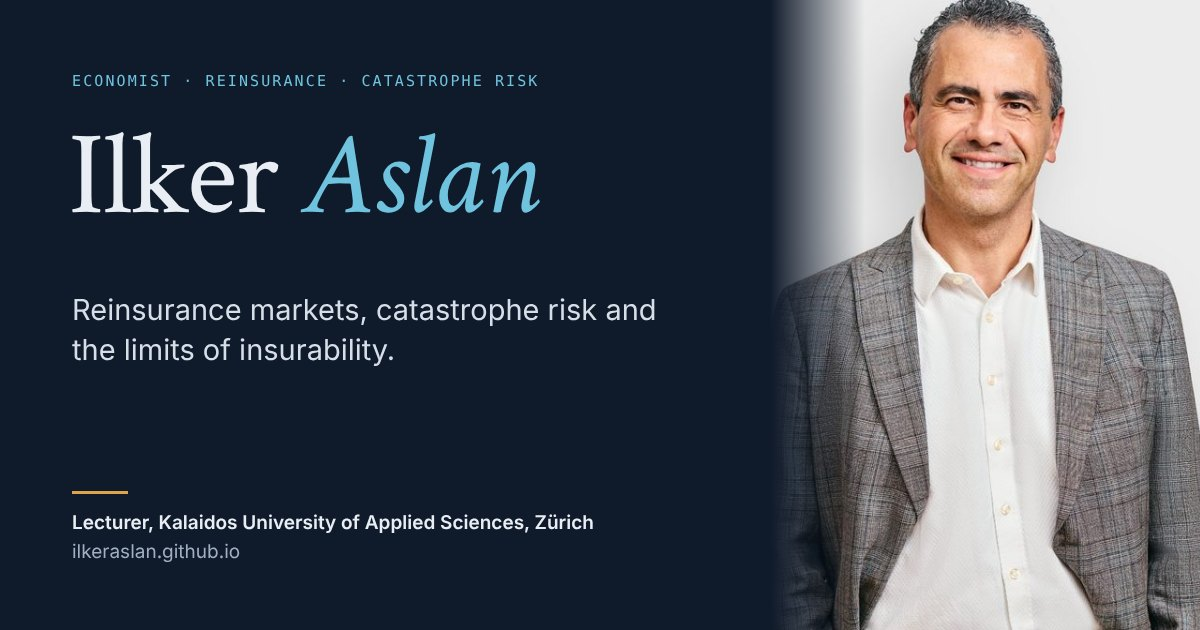
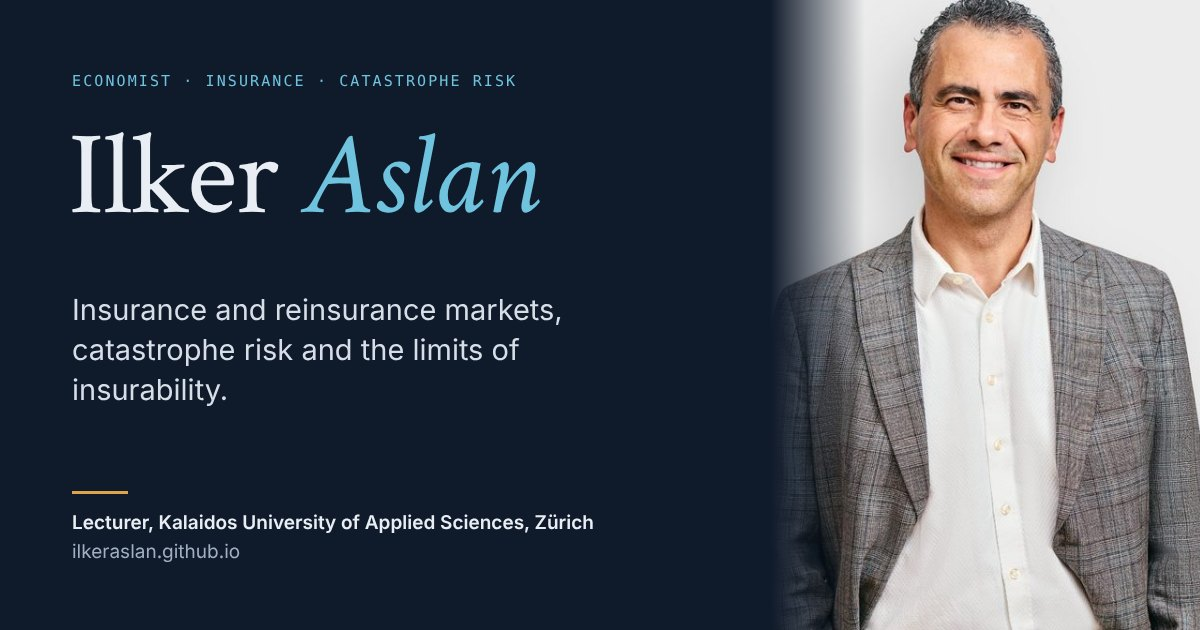
Polish phone layout, dark-mode photo and titles; lead with insurance

diff --git a/index.html b/index.html
@@ -3,7 +3,7 @@
 <head>
 <meta charset="utf-8">
 <meta name="viewport" content="width=device-width, initial-scale=1">
-<title>Ilker Aslan, PhD · Economist: reinsurance, catastrophe risk and monetary economics</title>
+<title>Ilker Aslan, PhD · Economist: insurance, catastrophe risk and monetary economics</title>
 <link rel="canonical" href="https://ilkeraslan.github.io/">
 <link rel="icon" href="assets/favicon.svg" type="image/svg+xml">
 <link rel="apple-touch-icon" href="assets/apple-touch-icon.png">
@@ -11,20 +11,20 @@
 <meta property="og:type" content="profile">
 <meta property="og:url" content="https://ilkeraslan.github.io/">
 <meta property="og:title" content="Ilker Aslan, PhD · Economist">
-<meta property="og:description" content="Reinsurance markets, catastrophe risk and the limits of insurability. Papers, talks, teaching and CV.">
-<meta property="og:image" content="https://ilkeraslan.github.io/assets/og-card.jpg">
+<meta property="og:description" content="Insurance and reinsurance markets, catastrophe risk and the limits of insurability. Papers, talks, teaching and CV.">
+<meta property="og:image" content="https://ilkeraslan.github.io/assets/og-card.jpg?v=2">
 <meta property="og:image:width" content="1200">
 <meta property="og:image:height" content="630">
-<meta property="og:image:alt" content="Ilker Aslan, economist: reinsurance markets, catastrophe risk and the limits of insurability">
+<meta property="og:image:alt" content="Ilker Aslan, economist: insurance and reinsurance markets, catastrophe risk and the limits of insurability">
 <meta property="profile:first_name" content="Ilker">
 <meta property="profile:last_name" content="Aslan">
 <meta name="twitter:card" content="summary_large_image">
 <meta name="twitter:title" content="Ilker Aslan, PhD · Economist">
-<meta name="twitter:description" content="Reinsurance markets, catastrophe risk and the limits of insurability.">
-<meta name="twitter:image" content="https://ilkeraslan.github.io/assets/og-card.jpg">
+<meta name="twitter:description" content="Insurance and reinsurance markets, catastrophe risk and the limits of insurability.">
+<meta name="twitter:image" content="https://ilkeraslan.github.io/assets/og-card.jpg?v=2">
 <meta name="author" content="Ilker Aslan">
-<script type="application/ld+json">{"@context": "https://schema.org", "@type": "Person", "name": "Ilker Aslan", "honorificSuffix": "PhD", "url": "https://ilkeraslan.github.io/", "image": "https://ilkeraslan.github.io/assets/og-card.jpg", "jobTitle": "Lecturer", "worksFor": {"@type": "CollegeOrUniversity", "name": "Kalaidos University of Applied Sciences", "address": {"@type": "PostalAddress", "addressLocality": "Zürich", "addressCountry": "CH"}}, "alumniOf": [{"@type": "CollegeOrUniversity", "name": "University of Fribourg"}, {"@type": "CollegeOrUniversity", "name": "Aarhus University"}, {"@type": "CollegeOrUniversity", "name": "University of Texas at Dallas"}], "knowsLanguage": ["English", "German", "French", "Turkish", "Spanish", "Greek"], "knowsAbout": ["Reinsurance", "Catastrophe risk", "Insurance-linked securities", "Cyber risk", "Monetary economics", "Macroeconomics", "Development economics", "History of economic thought"], "email": "mailto:ilker.aslan@alumni.unifr.ch", "sameAs": ["https://scholar.google.com/citations?user=typ8zTgAAAAJ", "https://papers.ssrn.com/sol3/cf_dev/AbsByAuth.cfm?per_id=4975975", "https://orcid.org/0000-0001-9241-9420", "https://www.linkedin.com/in/drilkeraslan/", "https://github.com/ilkeraslan"]}</script>
-<meta name="description" content="Ilker Aslan, PhD. Economist working on reinsurance markets, catastrophe and cyber risk transfer, and monetary economics. Lecturer, Kalaidos University of Applied Sciences, Zürich.">
+<script type="application/ld+json">{"@context": "https://schema.org", "@type": "Person", "name": "Ilker Aslan", "honorificSuffix": "PhD", "url": "https://ilkeraslan.github.io/", "image": "https://ilkeraslan.github.io/assets/og-card.jpg", "jobTitle": "Lecturer", "worksFor": {"@type": "CollegeOrUniversity", "name": "Kalaidos University of Applied Sciences", "address": {"@type": "PostalAddress", "addressLocality": "Zürich", "addressCountry": "CH"}}, "alumniOf": [{"@type": "CollegeOrUniversity", "name": "University of Fribourg"}, {"@type": "CollegeOrUniversity", "name": "Aarhus University"}, {"@type": "CollegeOrUniversity", "name": "University of Texas at Dallas"}], "knowsLanguage": ["English", "German", "French", "Turkish", "Spanish", "Greek"], "knowsAbout": ["Insurance", "Reinsurance", "Catastrophe risk", "Insurance-linked securities", "Cyber risk", "Monetary economics", "Macroeconomics", "Development economics", "History of economic thought"], "email": "mailto:ilker.aslan@alumni.unifr.ch", "sameAs": ["https://scholar.google.com/citations?user=typ8zTgAAAAJ", "https://papers.ssrn.com/sol3/cf_dev/AbsByAuth.cfm?per_id=4975975", "https://orcid.org/0000-0001-9241-9420", "https://www.linkedin.com/in/drilkeraslan/", "https://github.com/ilkeraslan"]}</script>
+<meta name="description" content="Ilker Aslan, PhD. Economist working on insurance and reinsurance markets, catastrophe and cyber risk transfer, and monetary economics. Lecturer, Kalaidos University of Applied Sciences, Zürich.">
 <link rel="preconnect" href="https://fonts.googleapis.com">
 <link rel="preconnect" href="https://fonts.gstatic.com" crossorigin>
 <link href="https://fonts.googleapis.com/css2?family=IBM+Plex+Mono:wght@400;500&family=IBM+Plex+Sans:wght@400;500;600&family=Instrument+Serif:ital@0;1&display=swap" rel="stylesheet">
@@ -95,6 +95,7 @@ p{margin:0}
 .hero{padding:64px 0 40px}
 .hero-grid{display:grid;grid-template-columns:minmax(0,1.25fr) minmax(0,.75fr);gap:56px;align-items:center}
 .eyebrow{font-family:var(--mono);font-size:12.5px;letter-spacing:.09em;text-transform:uppercase;color:var(--accent)}
+.eyebrow span{white-space:nowrap}
 .hero h1{font-family:var(--display);font-size:clamp(56px,9vw,112px);line-height:.95;letter-spacing:-.01em;margin:14px 0 22px}
 .hero h1 em{font-style:italic;color:var(--accent)}
 .lead{font-size:clamp(19px,2.1vw,23px);line-height:1.45;max-width:34ch;color:var(--ink)}
@@ -108,6 +109,8 @@ p{margin:0}
 .frame{position:relative}
 .portrait img{width:100%;height:auto;aspect-ratio:5/6;object-fit:cover}
 .frame{border-radius:6px;overflow:hidden;border:1px solid var(--line);box-shadow:0 18px 40px -24px rgba(15,26,42,.45)}
+@media (prefers-color-scheme: dark){:root:not([data-theme="light"]) .portrait img{filter:brightness(.84) contrast(1.04)}}
+:root[data-theme="dark"] .portrait img{filter:brightness(.84) contrast(1.04)}
 .portrait figcaption{font-family:var(--mono);font-size:12px;color:var(--muted);margin-top:12px;text-align:left;border-left:2px solid var(--accent);padding-left:10px}
 
 /* Facts strip */
@@ -196,7 +199,7 @@ section{padding:72px 0}
 .copy:hover{background:var(--paper);color:var(--ink)}
 .profiles{list-style:none;margin:0;padding:0;border-top:1px solid color-mix(in srgb,var(--paper) 25%,transparent)}
 .profiles li{border-bottom:1px solid color-mix(in srgb,var(--paper) 25%,transparent)}
-.profiles a{display:flex;justify-content:space-between;gap:16px;padding:15px 0;color:var(--paper);text-decoration:none;font-weight:500}
+.profiles a{display:flex;justify-content:space-between;align-items:baseline;gap:16px;padding:15px 0;color:var(--paper);text-decoration:none;font-weight:500}
 .profiles a span{font-family:var(--mono);font-size:13px;opacity:.7;font-weight:400}
 .profiles a:hover{padding-left:6px}
 .profiles a{transition:padding .15s}
@@ -206,7 +209,13 @@ footer .wrap{border-top:1px solid color-mix(in srgb,var(--paper) 25%,transparent
 @media (max-width: 860px){
   .hero{padding-top:40px}
   .hero-grid,.head,.programme,.cols,.about,.contact .wrap{grid-template-columns:minmax(0,1fr);gap:28px}
-  .portrait{justify-self:start;max-width:280px;order:-1}
+  .portrait{justify-self:start;max-width:240px}
+  .bar .wrap{flex-wrap:nowrap;min-height:52px;gap:14px}
+  .brand{font-size:21px;flex:none}
+  .nav{flex-wrap:nowrap;overflow-x:auto;scrollbar-width:none;gap:18px;padding:2px 0;-webkit-mask-image:linear-gradient(90deg,#000 82%,transparent);mask-image:linear-gradient(90deg,#000 82%,transparent)}
+  .nav::-webkit-scrollbar{display:none}
+  .nav a{white-space:nowrap;font-size:14px}
+  .nav a:last-child{padding-right:24px}
   .facts .wrap{grid-template-columns:repeat(2,minmax(0,1fr))}
   .fact{border-bottom:1px solid var(--line)}
   .fact:nth-child(2n){border-right:0}
@@ -240,9 +249,9 @@ footer .wrap{border-top:1px solid color-mix(in srgb,var(--paper) 25%,transparent
 <div class="hero">
   <div class="wrap hero-grid">
     <div>
-      <div class="eyebrow">Economist · Reinsurance · Catastrophe risk · Monetary economics</div>
+      <div class="eyebrow"><span>Economist</span> · <span>Insurance</span> · <span>Catastrophe risk</span> · <span>Monetary economics</span></div>
       <h1>Ilker <em>Aslan</em></h1>
-      <p class="lead">I study how reinsurance markets price, ration and pass on the risks that societies cannot carry alone.</p>
+      <p class="lead">I study how insurance and reinsurance markets price, ration and pass on the risks that societies cannot carry alone.</p>
       <p class="role">Lecturer, Kalaidos University of Applied Sciences, Zürich. Dr. rer. pol., University of Fribourg, Switzerland. Before that, more than a decade as a treaty reinsurance underwriter.</p>
       <div class="actions">
         <a class="btn primary" href="#papers">Read the papers</a>
@@ -303,7 +312,7 @@ footer .wrap{border-top:1px solid color-mix(in srgb,var(--paper) 25%,transparent
       <div class="highlights">
         <article class="hl">
           <div class="venue">Risk Management and Insurance Review · 2026 · open access</div>
-          <h3>Why risk-based premiums will not close the catastrophe protection gap</h3>
+          <h3>Why Risk-Based Premiums Will Not Close the Catastrophe Protection Gap</h3>
           <p>Europe insures only a fraction of its natural catastrophe losses, and the proposed EU scheme relies on risk-based premiums to change that. Once climate change removes a stable loss distribution, catastrophe prices rest on convention, reinsurance capacity moves in cycles and rationing ratchets upward, so pricing alone cannot close the gap.</p>
           <a href="https://doi.org/10.1111/rmir.70051">Read the article</a>
         </article>
@@ -355,7 +364,7 @@ footer .wrap{border-top:1px solid color-mix(in srgb,var(--paper) 25%,transparent
         <div class="kicker">Talks and teaching</div>
         <h2>Where the work is presented and taught</h2>
       </div>
-      <p>I am glad to give seminars and guest lectures on reinsurance and catastrophe risk, and on monetary, macro and development economics.</p>
+      <p>I am glad to give seminars and guest lectures on insurance, reinsurance and catastrophe risk, and on monetary, macro and development economics.</p>
     </div>
     <div class="cols">
       <div>
@@ -364,13 +373,13 @@ footer .wrap{border-top:1px solid color-mix(in srgb,var(--paper) 25%,transparent
           <li><span class="when">27 Apr 2027</span><span><strong>Research colloquium</strong><span class="sub">Kalaidos University of Applied Sciences, Zürich</span></span></li>
           <li><span class="when">5–6 Feb 2027</span><span><strong>Existential Risk from Artificial Intelligence and the Limits of Insurability</strong><span class="sub">Workshop at Georgia State University, Atlanta. Presenter and discussant</span></span></li>
           <li><span class="when">3 Dec 2026</span><span><strong>Keynes at the National Mutual</strong><span class="sub">International conference “Rethinking Economics with Keynes: 90 Years after the Publication of The General Theory”, Amiens, France</span></span></li>
-          <li><span class="when">Autumn 2026</span><span><strong>Interest-rate risk in insurance asset-liability management</strong><span class="sub">Lecture for master's students, Topics of Applied Risk Management, Department of Finance, University of Zurich · <a href="talks/Aslan_Slides_Interest_Rate_Risk_in_Insurance_ALM.pdf">Slides (PDF)</a></span></span></li>
         </ul>
       </div>
       <div>
         <h3>Teaching</h3>
         <ul class="rows">
           <li><span class="when">Since 2026</span><span><strong>Kalaidos University of Applied Sciences</strong><span class="sub">Lecturer, Zürich</span></span></li>
+          <li><span class="when">Autumn 2026</span><span><strong>University of Zurich</strong><span class="sub">Interest-rate risk in insurance asset-liability management. Lecture for master's students, Topics of Applied Risk Management, Department of Finance · <a href="talks/Aslan_Slides_Interest_Rate_Risk_in_Insurance_ALM.pdf">Slides (PDF)</a></span></span></li>
           <li><span class="when">Since 2025</span><span><strong>Höhere Fachschule Versicherung</strong><span class="sub">Reinsurance, insurance mathematics and statistics, Zürich</span></span></li>
           <li><span class="when">2018–2020</span><span><strong>Swiss Re Academy</strong><span class="sub">Course leader</span></span></li>
         </ul>
@@ -438,7 +447,7 @@ footer .wrap{border-top:1px solid color-mix(in srgb,var(--paper) 25%,transparent
 <script>
 const S = id => "https://ssrn.com/abstract=" + id;
 const papers = [
-  {sel:1,y:2026,t:"Why risk-based premiums will not close the catastrophe protection gap: Conventional pricing, reinsurance capacity, and public scheme design",v:"Risk Management and Insurance Review, 2026",u:"https://doi.org/10.1111/rmir.70051",s:"Shows why risk-based premiums cannot close Europe's catastrophe protection gap once climate change removes a stable loss distribution: prices rest on convention, capacity moves in cycles and rationing ratchets upward.",k:"cat",pub:true},
+  {sel:1,y:2026,t:"Why Risk-Based Premiums Will Not Close the Catastrophe Protection Gap: Conventional Pricing, Reinsurance Capacity, and Public Scheme Design",v:"Risk Management and Insurance Review, 2026",u:"https://doi.org/10.1111/rmir.70051",s:"Shows why risk-based premiums cannot close Europe's catastrophe protection gap once climate change removes a stable loss distribution: prices rest on convention, capacity moves in cycles and rationing ratchets upward.",k:"cat",pub:true},
   {sel:2,y:2026,t:"Monetary Sovereignty and Catastrophe Fiscal Capacity: Turkey, Japan, and the Limits of Disaster Self-Insurance",v:"Review of Political Economy, 2026",u:"https://doi.org/10.1080/09538259.2026.2724127",s:"Introduces catastrophe fiscal capacity and uses Japan in 2011 and Turkey in 2023 to show that a state's ability to absorb disaster losses depends on its degree of monetary sovereignty.",k:"public",pub:true},
   {y:2026,t:"Turbulent Arbitrage in Reinsurance: Regulating Capital and the Cycle",u:"papers/Aslan_2026_Turbulent_Arbitrage_in_Reinsurance.pdf",s:"Reads the underwriting cycle through Anwar Shaikh's theory of real competition: the price of a layer is regulated by the cheapest reproducible form of risk capital, and sector and firm data for 2006–2025 show profit rates equalising turbulently rather than persisting.",k:"cycle"},
   {sel:7,y:2026,t:"Reinstatement Provisions in Catastrophe Reinsurance: The Contract Economics of Post-Loss Capacity",u:"papers/Aslan_2026_Reinstatement_Provisions_in_Catastrophe_Reinsurance.pdf",s:"Asks why a cedent wants reinstatements at all and shows, in a two-period model, that restoration paid for at inception is a contingent forward on post-loss capacity, valuable only when the post-loss price is uncertain and never worth buying for the full limit.",k:"cycle"},
